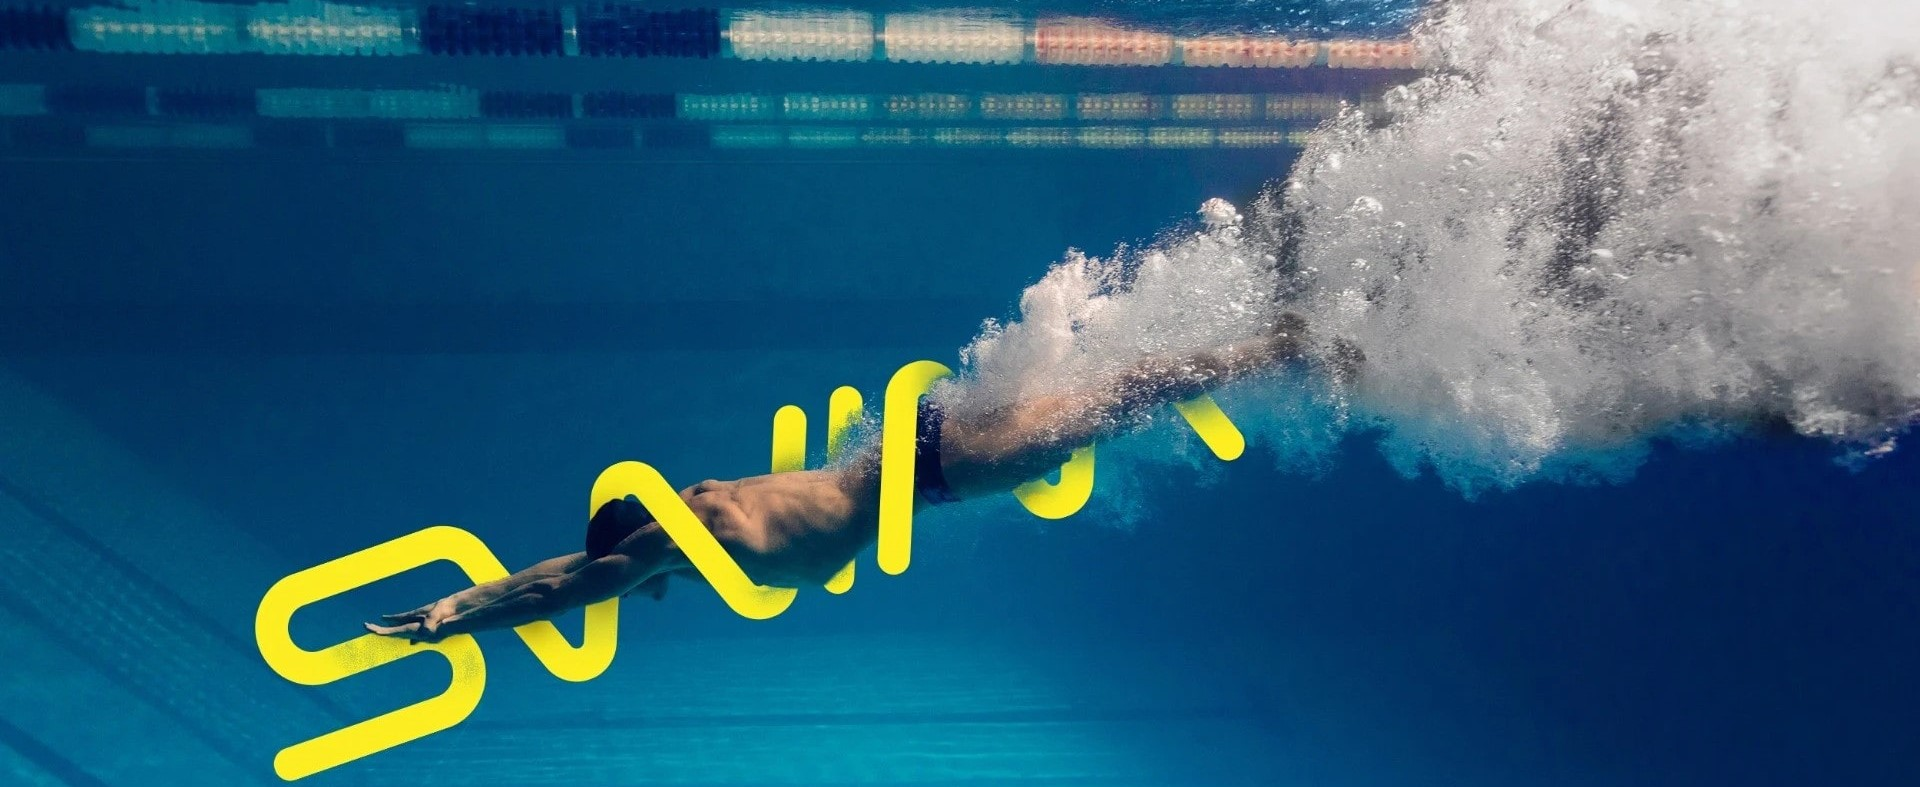
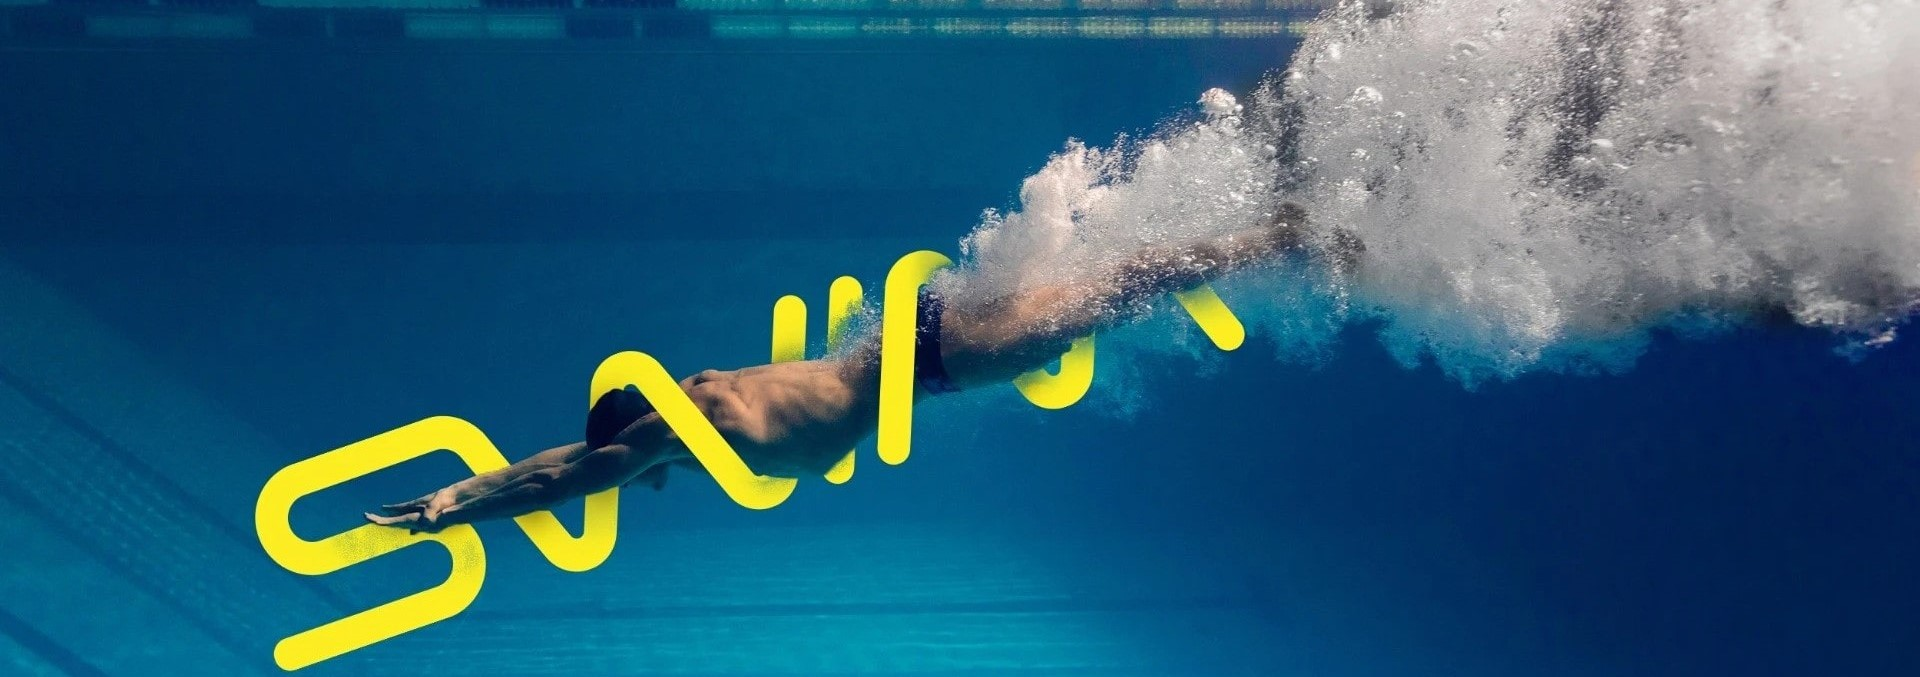
stylesClara

diff --git a/swimming.html b/swimming.html
@@ -9,7 +9,8 @@
 	<!-- Bootstrap CSS -->
 	<link href="https://cdn.jsdelivr.net/npm/bootstrap@5.3.0/dist/css/bootstrap.min.css" rel="stylesheet">
 	<!-- Dynamic Styles -->
-	<link id="dynamicStyle" rel="stylesheet" href="external.css">
+	<!--<link id="dynamicStyle" rel="styeslesheet" href="external.css">-->
+	<link rel="stylesheet" href="stylesClara.css">
 </head>
 
 <body>

diff --git a/stylesClara.css b/stylesClara.css
@@ -103,12 +103,12 @@ footer p {
 /* ____________________ Swimming Page ____________________ */
 /*description */
 .swimming-class img {
-    height: 300px;
+    height: 400px;
     width: 100%;
 }
 
 .swimming-description h3 {
-    padding-top: 30px;
+    padding-top: 5px;
     text-align: center;
 }
 

diff --git a/external.css b/external.css
@@ -108,6 +108,18 @@ footer p {
 
 /*main content*/
 /*modalities*/
+.container {
+    display: flex;
+    justify-content: center;
+    flex-direction: column;
+    align-items: center;
+    width: 100%;
+}
+
+.modalities {
+    text-align: center;
+    width: 90%;
+}
 
 .categories {
     width: 90%;
